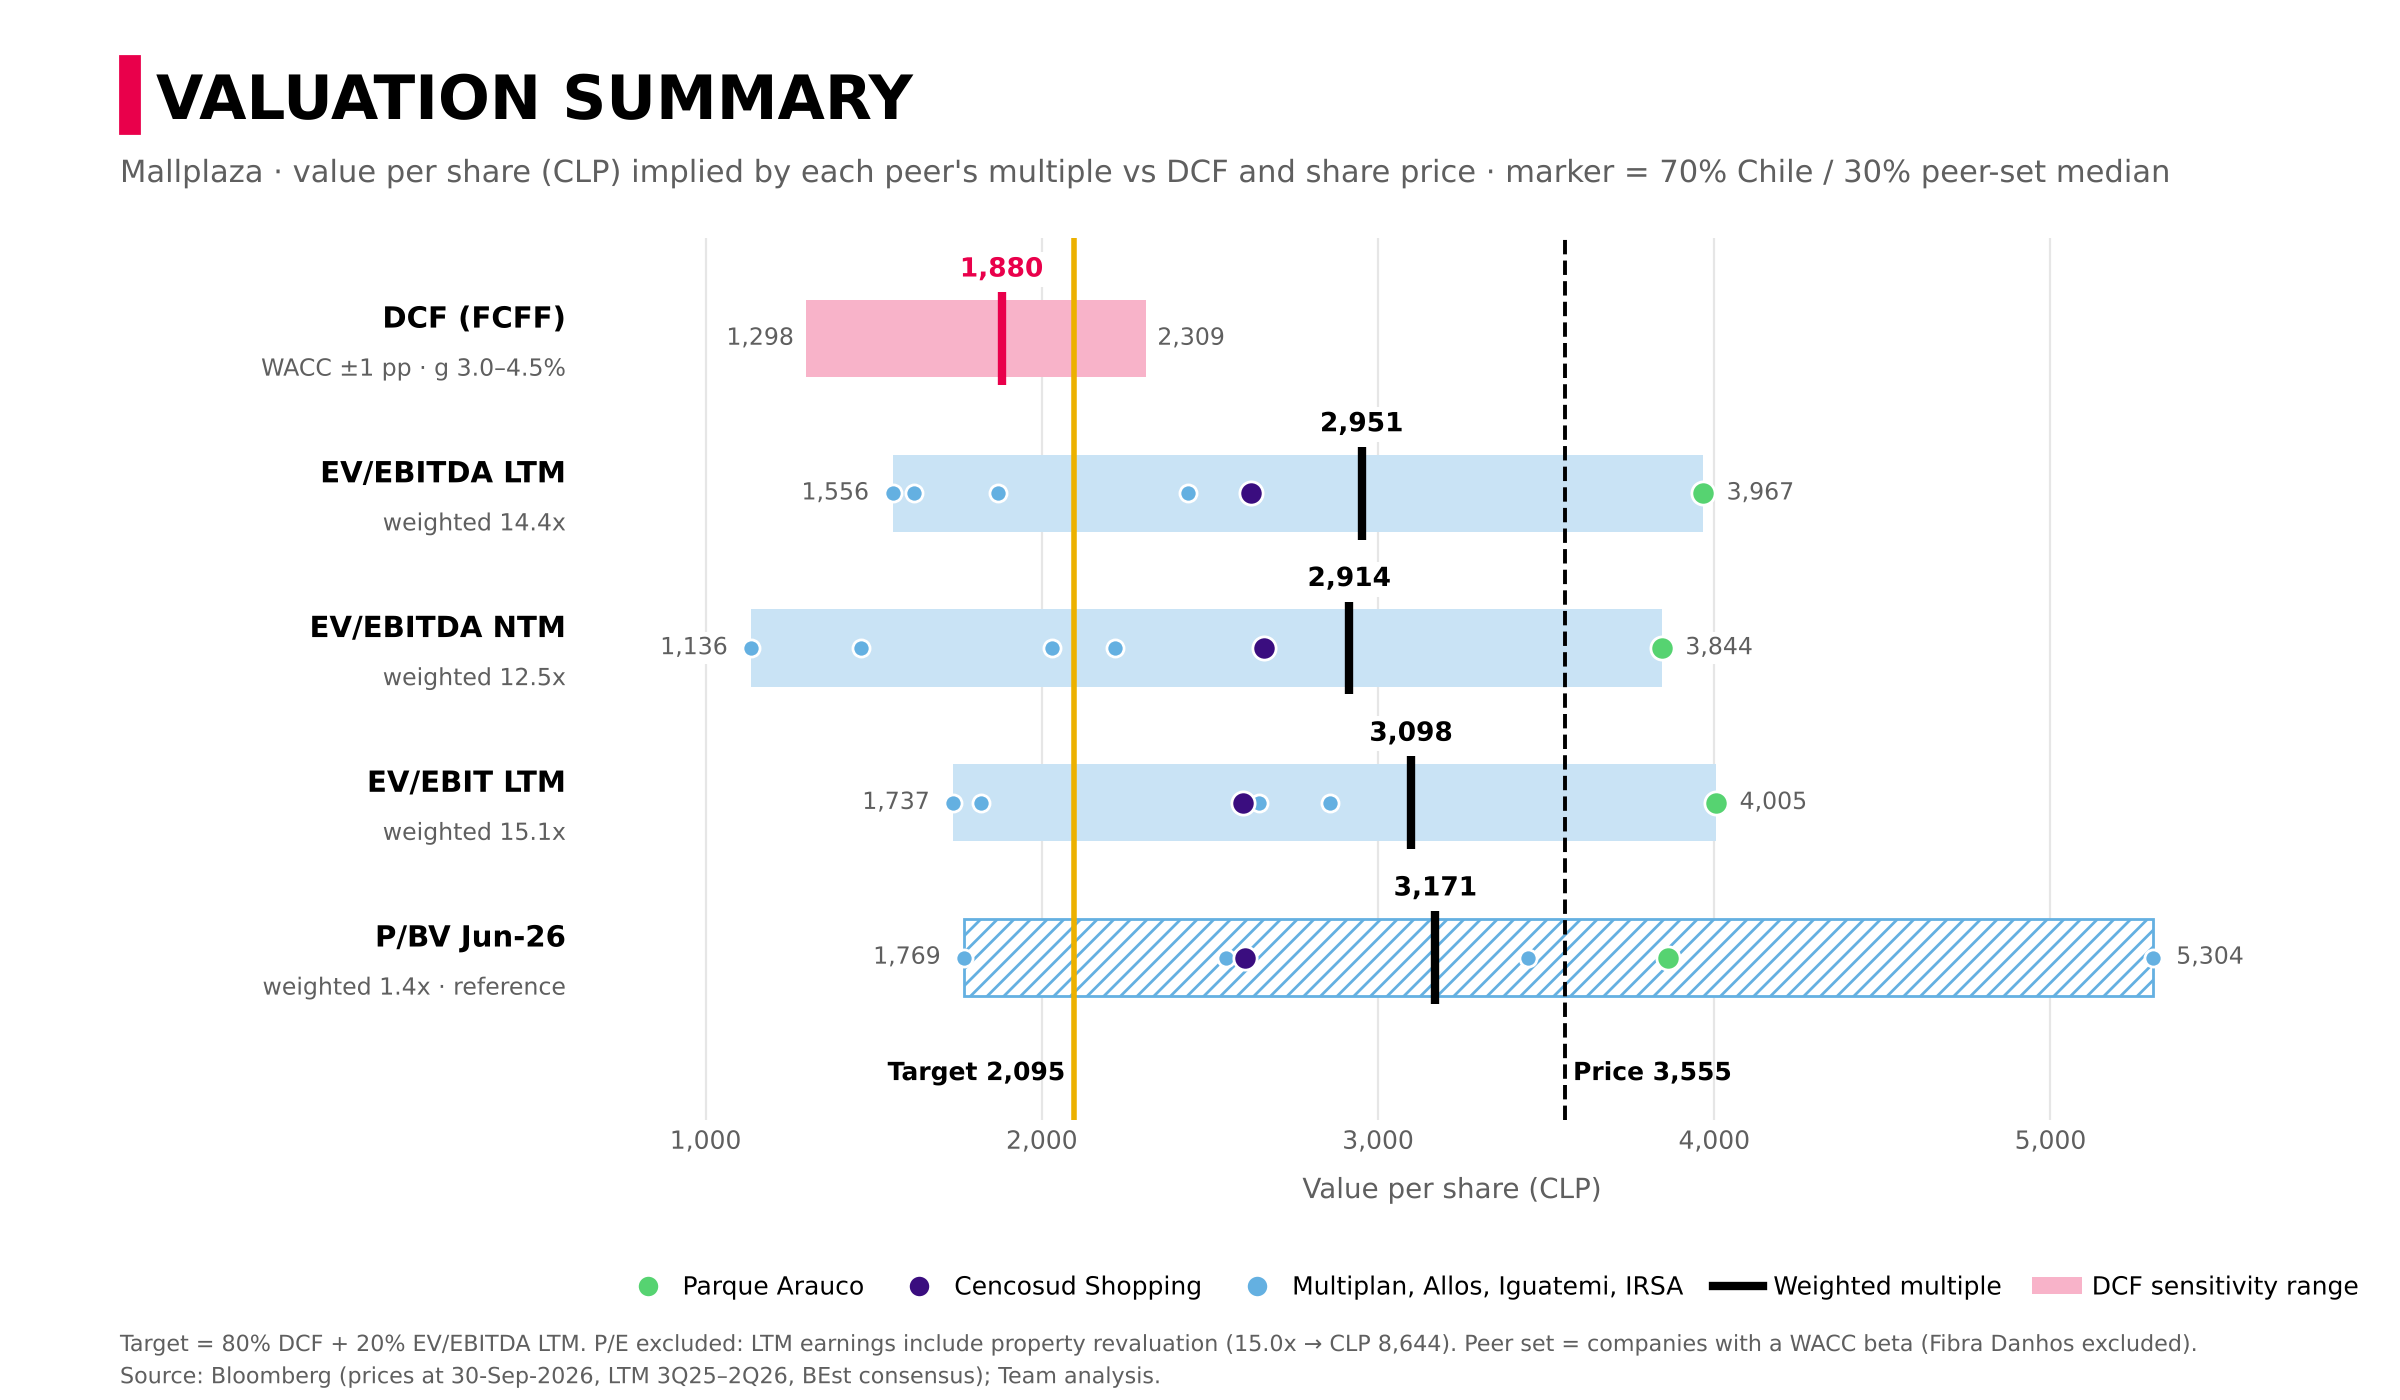
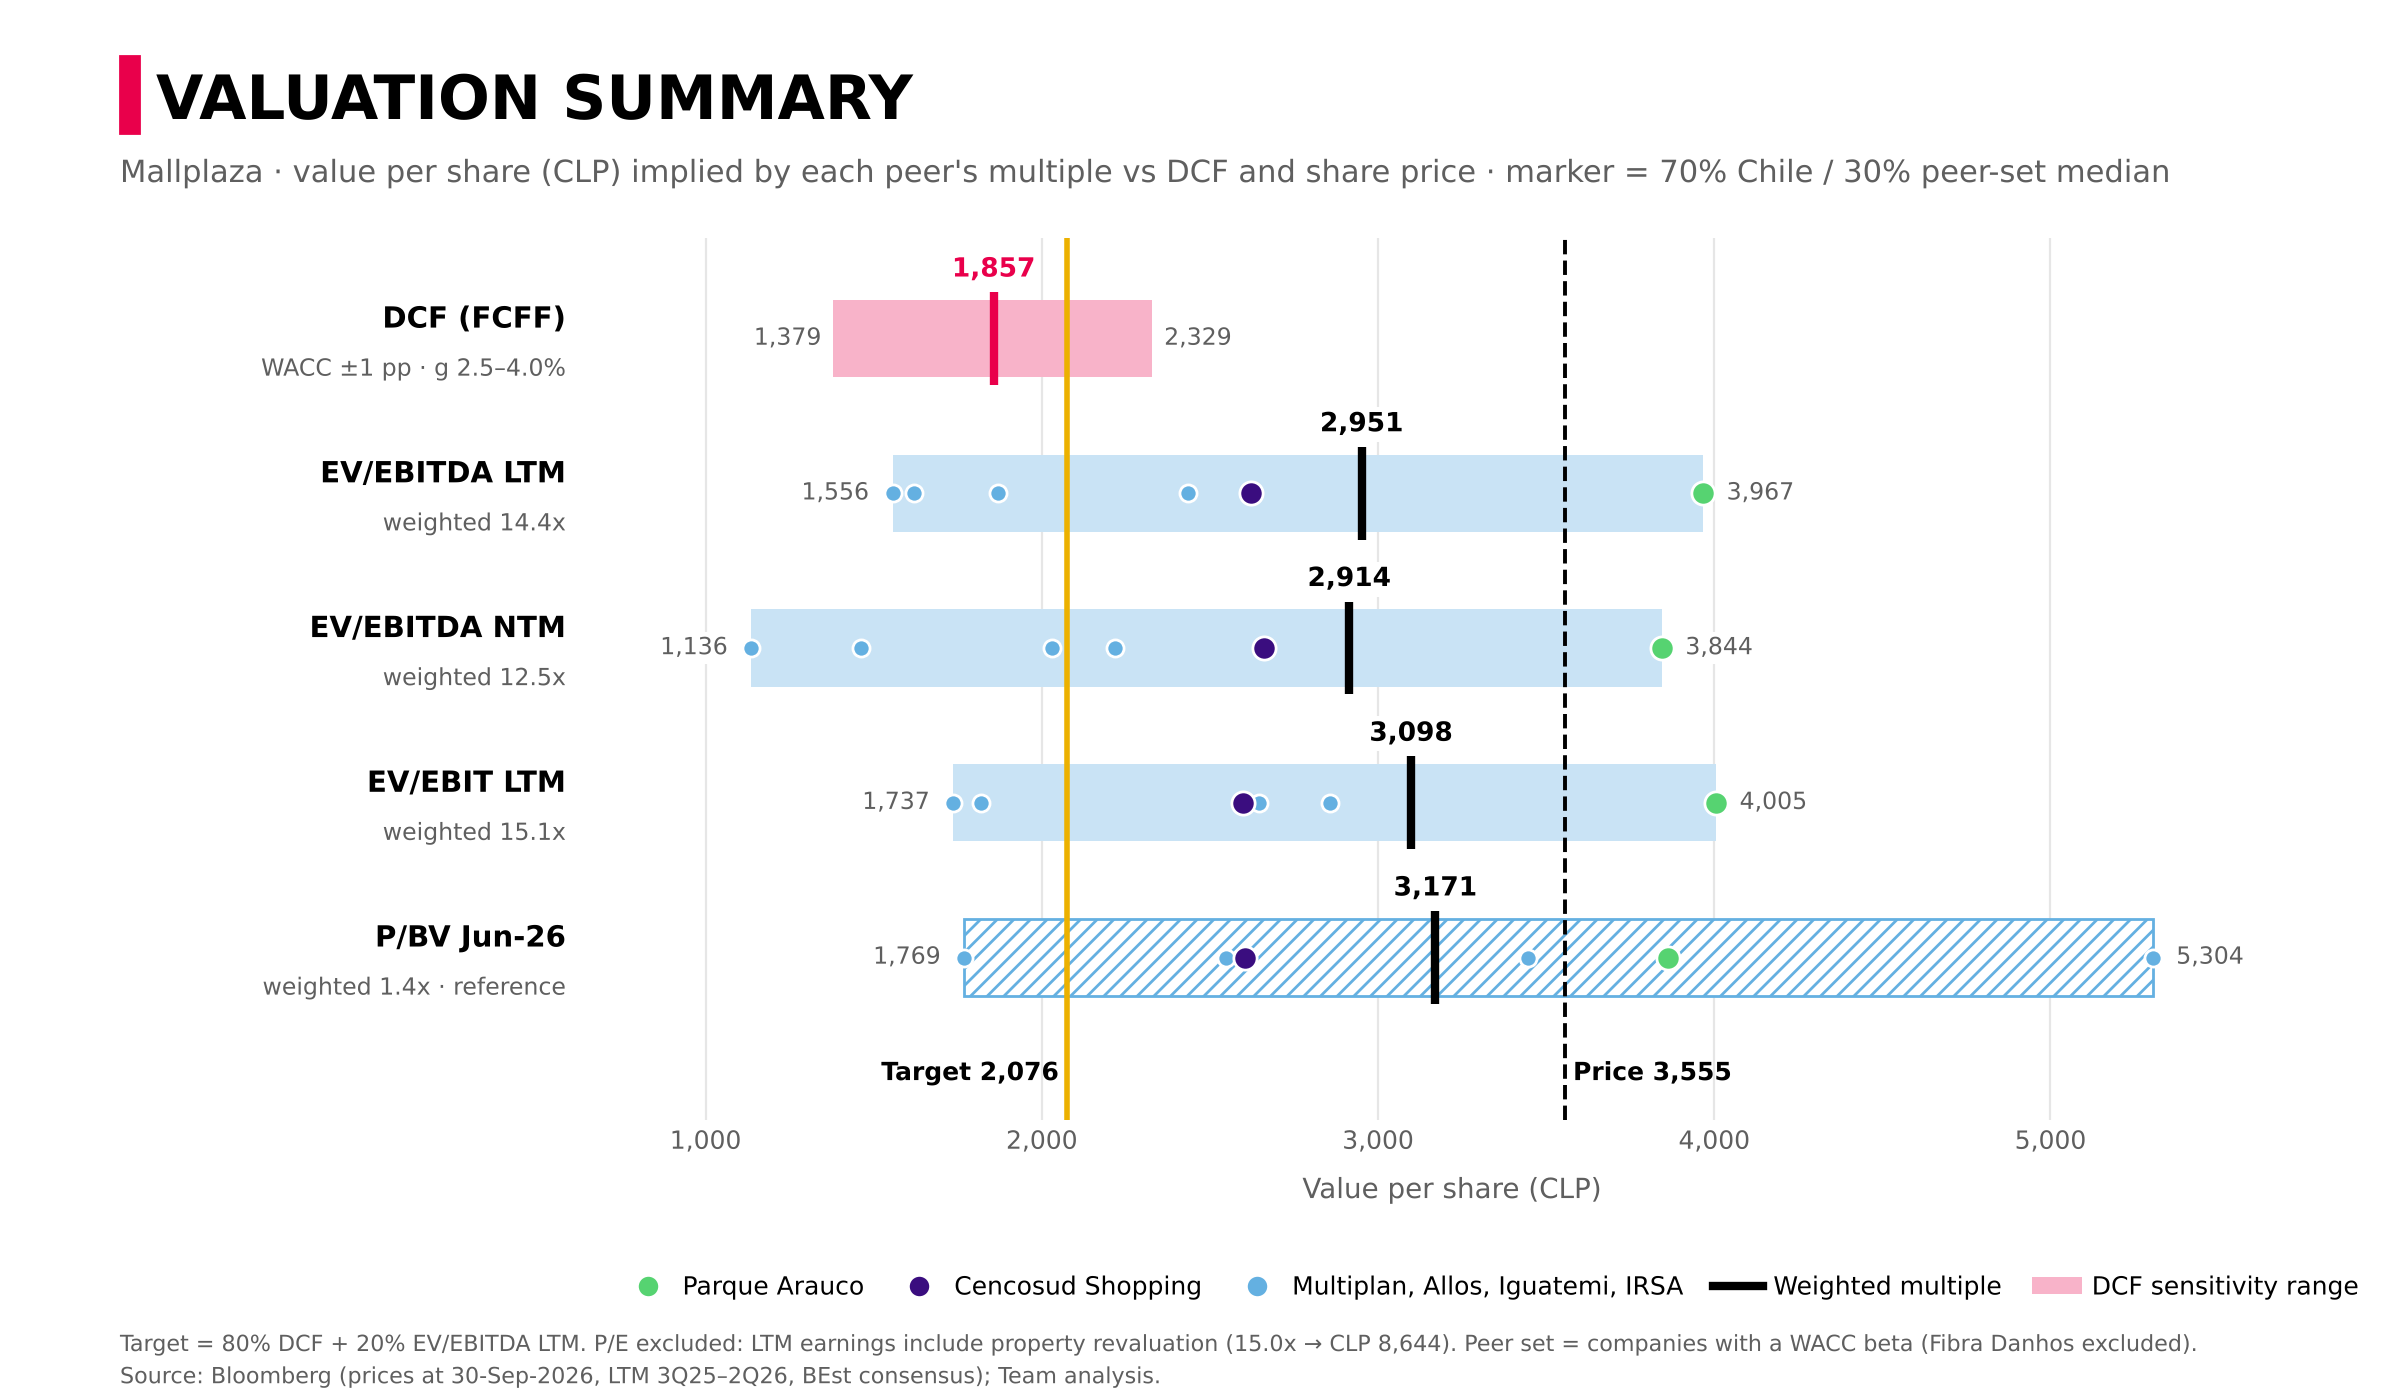
Update football field to the consolidated v2 model
DCF CLP 1,857 with the v2 sensitivity range (1,379-2,329), target CLP 2,076.

Claude-Session: https://claude.ai/code/session_0188QZHBkA8n5QL7BtmFakQg

Changed region(s): [[0.375, 0.1843, 0.5, 0.7986], [0.3125, 0.215, 0.375, 0.2764]]

diff --git a/graficos/football_field.py b/graficos/football_field.py
@@ -28,8 +28,8 @@ MULTIPLOS = [("P", 5, "EV/EBITDA LTM", "K5", True), ("Q", 6, "EV/EBITDA NTM", "O
 
 def leer(ruta):
     wb = openpyxl.load_workbook(ruta, data_only=True)
-    c, po, s, d = wb["Comparables"], wb["Precio_Objetivo"], wb["Supuestos"], wb["DCF"]
-    deuda, nci, acciones = s["B15"].value, s["B12"].value, s["B10"].value
+    c, po, s = wb["Comparables"], wb["Precio_Objetivo"], wb["Supuestos"]
+    deuda, nci, acciones = s["B14"].value, s["B11"].value, s["B9"].value
     filas = []
     for col, r_po, nombre, celda, es_ev in MULTIPLOS:
         metrica = c[celda].value
@@ -41,8 +41,9 @@ def leer(ruta):
             ev = m * metrica
             pares.append((c[f"A{r}"].value, m, (ev - deuda - nci if es_ev else ev) / acciones))
         filas.append((nombre, es_ev, pares, po[f"B{r_po}"].value, po[f"D{r_po}"].value))
-    grilla = [d.cell(r, k).value for r in range(61, 66) for k in range(3, 7)]
-    dcf = (min(grilla), d["B45"].value, max(grilla))
+    sens = wb["Sensibilidad"]   # tabla 1 de v2: WACC ±1 pp en paralelo vs g 2,5–4,0%
+    grilla = [sens.cell(r, k).value for r in range(6, 11) for k in range(2, 6)]
+    dcf = (min(grilla), po["B12"].value, max(grilla))
     pe = (po["B8"].value, po["D8"].value)
     return filas, dcf, pe, po["B15"].value, po["B16"].value, po["B14"].value
 
@@ -60,7 +61,7 @@ def graficar(ruta, salida):
 
     ax = fig.add_axes([0.25, 0.2, 0.71, 0.63])
     n = len(filas) + 1
-    # DCF: rango de la grilla de sensibilidad (WACC ±1 pp, g 3,0–4,5%)
+    # DCF: rango de la grilla de sensibilidad (WACC ±1 pp en paralelo, g 2,5–4,0%, modelo v2)
     y = n - 1
     ax.barh(y, dcf[2] - dcf[0], left=dcf[0], height=0.5, color=ROJO_CLARO)
     ax.plot([dcf[1]] * 2, [y - 0.3, y + 0.3], color=ROJO, linewidth=3, solid_capstyle="butt")
@@ -71,7 +72,7 @@ def graficar(ruta, salida):
                 fontsize=8.5, color=TINTA_SECUNDARIA, zorder=4, bbox=FONDO)
     ax.text(-0.02, y + 0.12, "DCF (FCFF)", transform=ax.get_yaxis_transform(), ha="right",
             va="center", fontsize=10.5, fontweight="bold", color=NEGRO)
-    ax.text(-0.02, y - 0.2, "WACC ±1 pp · g 3.0–4.5%", transform=ax.get_yaxis_transform(),
+    ax.text(-0.02, y - 0.2, "WACC ±1 pp · g 2.5–4.0%", transform=ax.get_yaxis_transform(),
             ha="right", va="center", fontsize=8.5, color=TINTA_SECUNDARIA)
 
     for y, (nombre, es_ev, pares, mult, valor) in zip(range(n - 2, -1, -1), filas):
